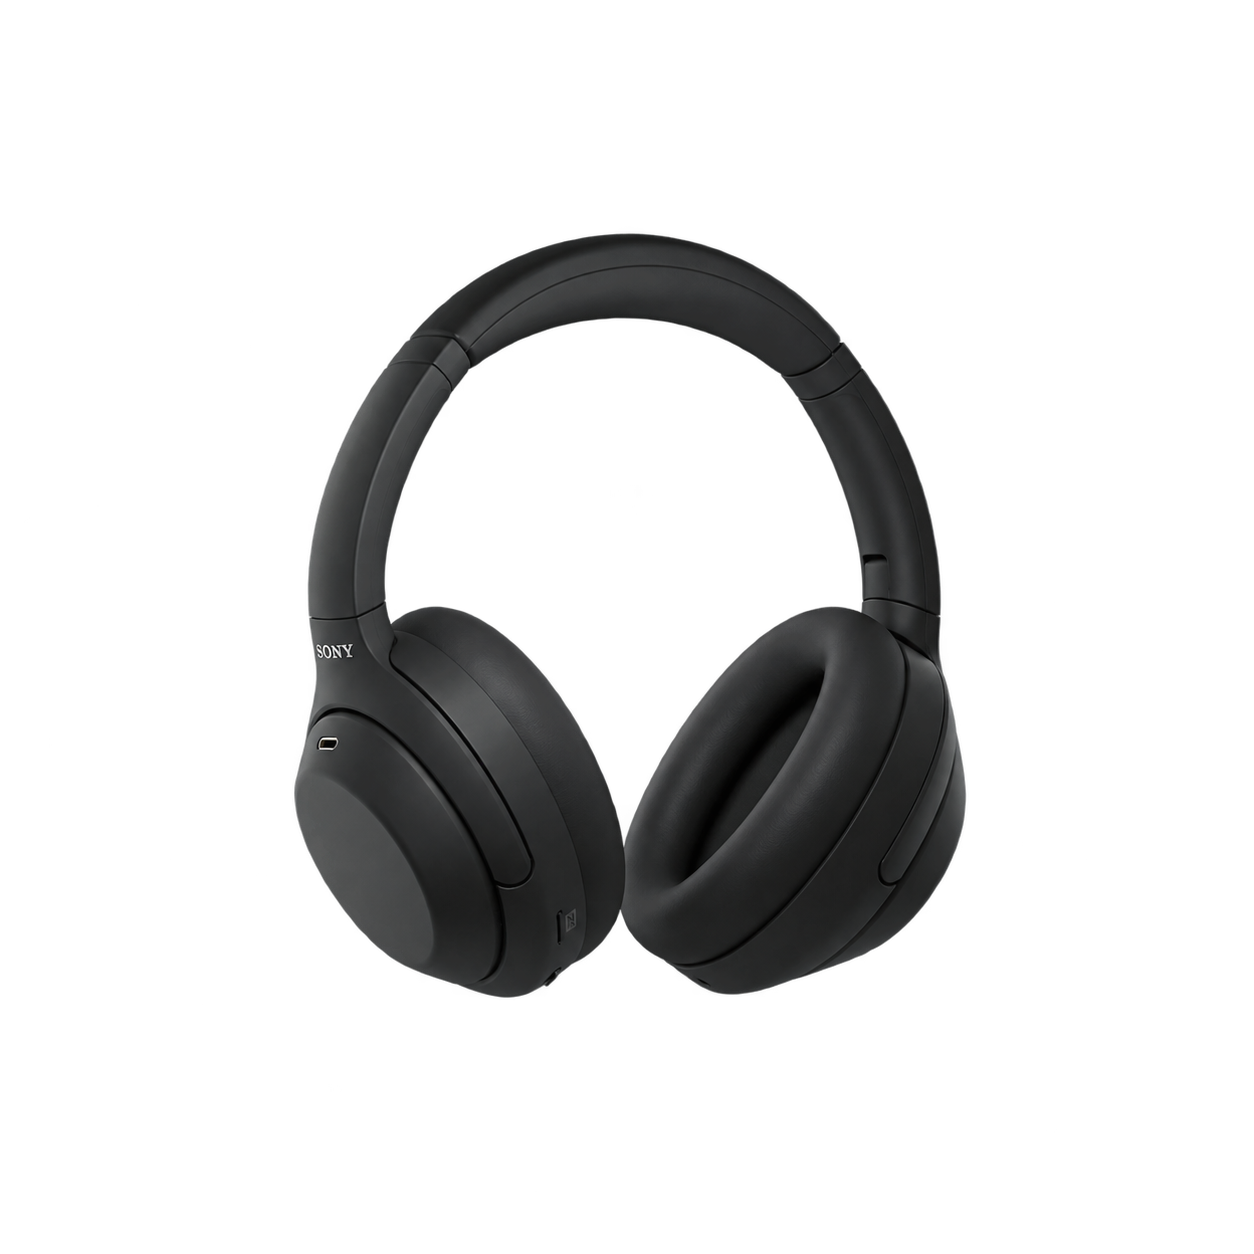
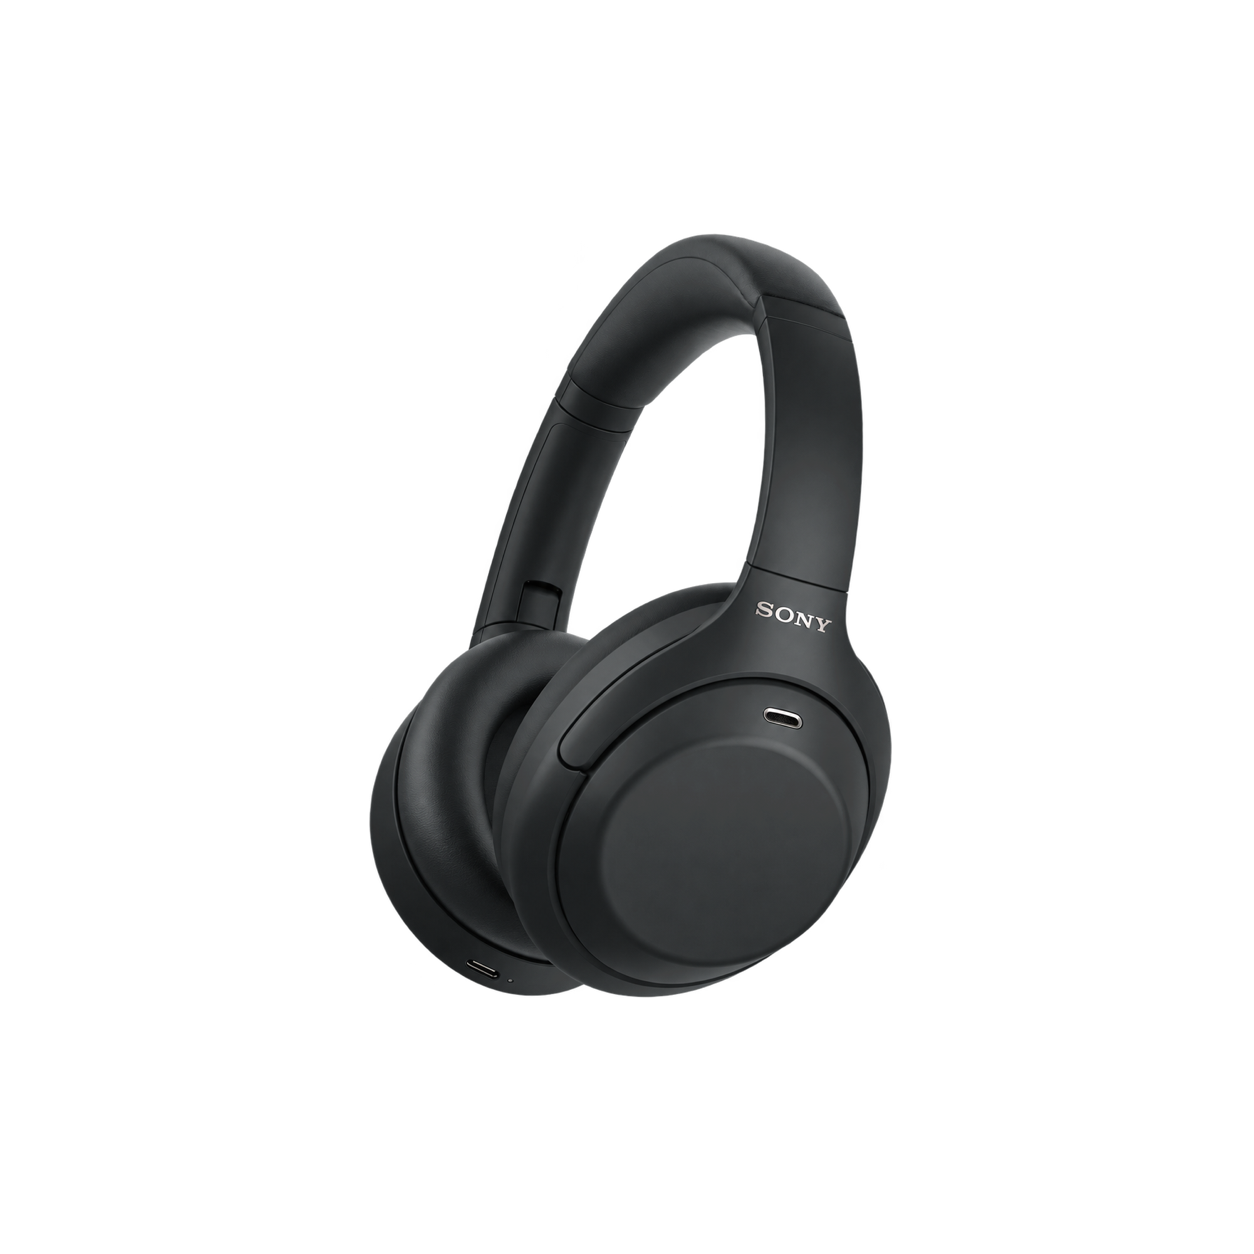
assets: replace XM4C product image with approved viewing angle

Changed region(s): [[0.2177, 0.1866, 0.7775, 0.8086]]

diff --git a/docs/ASSET_SOURCES.md b/docs/ASSET_SOURCES.md
@@ -2,12 +2,11 @@
 
 ## WH-1000XM4C, black
 
-- Manufacturer/product page: https://www.sony.com.ph/headphones/products/wh-1000xm4c
-- The page's 360-degree viewer links to Sony's image asset `sonyglobalsolutions/01-61`.
-- Exact retrieved image: https://sony.scene7.com/is/image/sonyglobalsolutions/01-61?fmt=png-alpha&wid=800&hei=800&fit=fit,1
-- Retrieved: 2026-11-21.
-- Source format: 800 × 800 PNG. The retrieved Sony rendition had transparent outer margins but an opaque white background behind and inside the headphones.
-- The white background was removed with the OpenAI image generation/editing tool on 2026-11-21. The resulting 1254 × 1254 PNG has a transparent background; the product render was retained as the visual source, with generated antialiased cutout edges. It is stored at `Client/macos/Assets.xcassets/wh-1000xm4c.imageset/wh-1000xm4c.png` and `Client/resources/devices/wh-1000xm4c.png`.
-- The macOS view scales the cutout 1.3× within its existing product-image frame to account for transparent padding while keeping the full headphone silhouette visible.
+- Current source: product photograph supplied by the maintainer on 2026-11-23, filename `SONY-WH-1000XM4C.jpg` (1439 × 2132 JPEG). No original public download URL was supplied.
+- Background removed with the built-in OpenAI image editing tool on 2026-11-23. Prompt: remove the white background, including inside the headband; preserve the supplied camera angle, proportions, Sony lettering, materials and lighting; output a transparent PNG, using the previous asset only as a scale and placement reference.
+- The transparent cutout was proportionally resized and placed on a 1254 × 1254 canvas. Its visible silhouette retains the previous asset's 765 px height and center position; the new angle naturally has a narrower silhouette.
+- Identical PNGs are stored at `Client/macos/Assets.xcassets/wh-1000xm4c.imageset/wh-1000xm4c.png` and `Client/resources/devices/wh-1000xm4c.png`.
+- The macOS view retains its existing 1.3× scale within the product-image frame.
+- Previous asset: Sony's `sonyglobalsolutions/01-61` rendition, retrieved 2026-11-21 from https://sony.scene7.com/is/image/sonyglobalsolutions/01-61?fmt=png-alpha&wid=800&hei=800&fit=fit,1 and processed to remove its white background. Replaced by the maintainer-supplied angle above.
 
 The product render and Sony marks belong to Sony. The repository's MIT code license does not grant rights to Sony imagery. Manufacturer asset rights are separate from the code license; this fork does not assert a separate redistribution license. Existing upstream image assets retain their respective rights and attribution.
